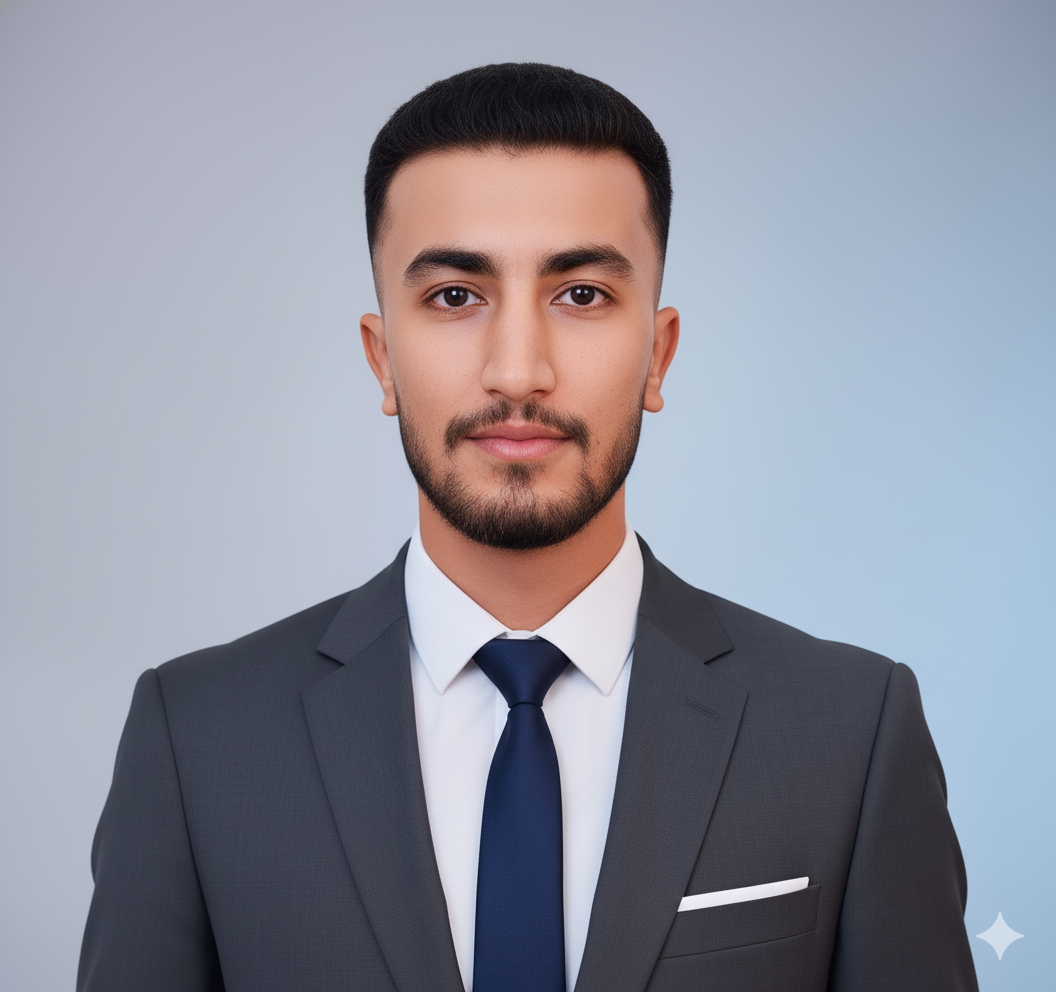
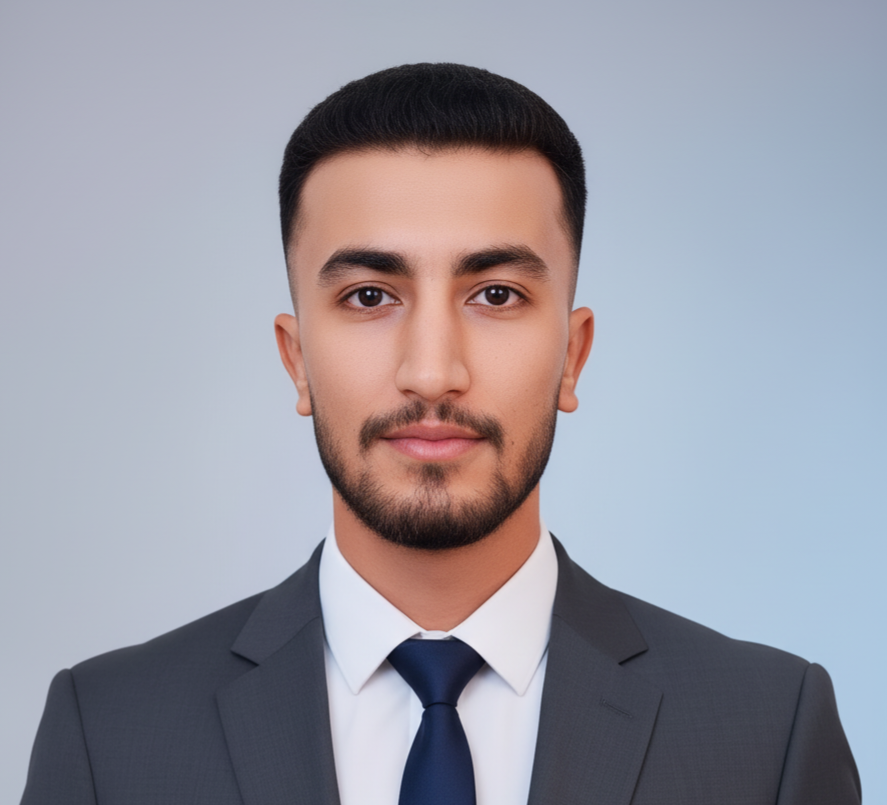
Update image

diff --git a/src/components.js/Header.js b/src/components.js/Header.js
@@ -1,6 +1,6 @@
 import React, { useState, useEffect } from "react";
 import me from "../assets/me.jpg";
-import meLight from "../assets/meLight.jpg";
+import meLight from "../assets/meLight.png";
 import "../templates.js/header.css";
 import Resume from "../assets/Resume.pdf";
 import { useGlobalContext } from "../context";
